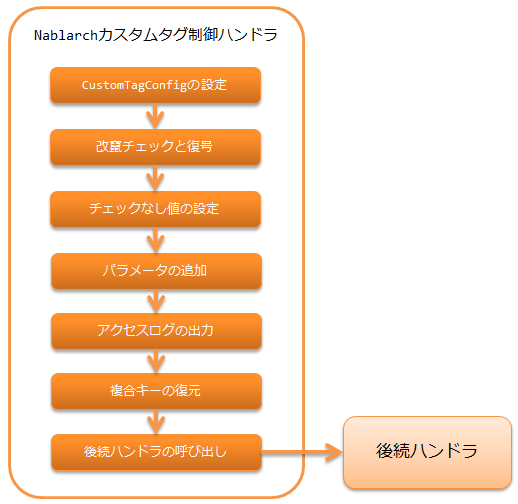
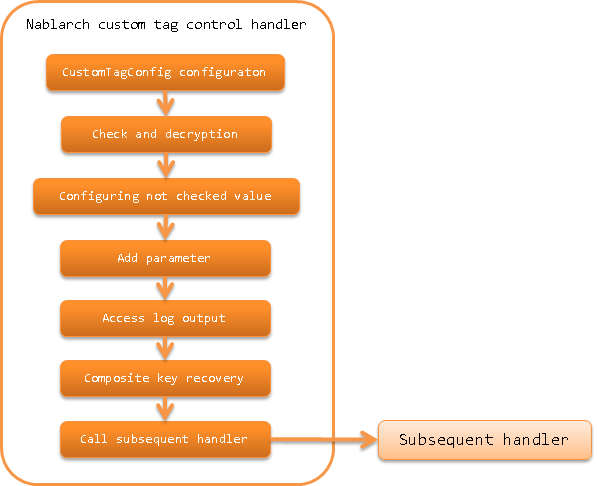
Nablarchカスタムタグ制御ハンドラページを英語化

Changed region(s): [[0.0, 0.0, 1.0, 1.0]]

diff --git a/en/application_framework/application_framework/handlers/web/nablarch_tag_handler.rst b/en/application_framework/application_framework/handlers/web/nablarch_tag_handler.rst
@@ -1,40 +1,40 @@
 .. _nablarch_tag_handler:
 
-Nablarchカスタムタグ制御ハンドラ
+Nablarch Custom Tag Control Handler
 ==================================================
 
-.. contents:: 目次
+.. contents:: Table of contents
   :depth: 3
   :local:
 
-Nablarchの :ref:`tag` に必要なリクエスト処理を行うハンドラ。
+This handler performs request processing required for Nablarch :ref:`tag`.
 
-本ハンドラでは、以下の処理を行う。
+This handler performs the following processes.
 
-* カスタムタグのデフォルト値をJSPで参照できるように、
-  :java:extdoc:`CustomTagConfig<nablarch.common.web.tag.CustomTagConfig>` をリクエストスコープに設定する。
-* :ref:`hidden暗号化<tag-hidden_encryption>` に対応する改竄チェックと復号を行う。
-* :ref:`チェックボックスのチェックなしに対する値を指定する<tag-checkbox_off_value>` ために、リクエストにチェックなしに対応する値を設定する。
-* :ref:`ボタン又はリンク毎のパラメータ追加<tag-submit_change_parameter>` のために、リクエストにパラメータを追加する。
-* :ref:`http_access_log` のリクエストパラメータを出力する。
-* :ref:`複合キーを扱える<tag-composite_key>` ようにするため、複合キーを復元する。
+* Configure :java:extdoc:`CustomTagConfig<nablarch.common.web.tag.CustomTagConfig>` in the request scope
+  so that the default value of custom tag can be referenced in JSP.
+* Performs tampering check and decryption corresponding to :ref:`hidden encryption<tag-hidden_encryption>`.
+* For :ref:`specify the value for checkbox that is not checked<tag-checkbox_off_value>`, configure the corresponding value in the request without checking.
+* For :ref:`add parameters for each button or link<tag-submit_change_parameter>`, add parameters to the request.
+* Output the request parameter of :ref:`http_access_log`.
+* Restore the composite key to set :ref:`handle composite key<tag-composite_key>`.
 
 .. tip::
- GETリクエストの場合、カスタムタグではhiddenパラメータを出力しない。
- hiddenパラメータを出力しない理由は、 :ref:`tag-using_get` を参照。
+ In the case of GET request, hidden parameter is not output in the custom tag.
+ Refer to :ref:`tag-using_get` for the reason why hidden parameters are not output.
 
- カスタムタグに合わせて、本ハンドラでも、GETリクエストの場合はhiddenパラメータに関連する処理を行わず、
- 複合キーの復元処理のみを行う。
+ In accordance with the custom tag, this handler also does not perform the process related to the hidden parameter in the case of GET request,
+ but only restores the composite key.
 
-処理の流れは以下のとおり。
+The process flow is as follows.
 
 .. image:: ../images/NablarchTagHandler/NablarchTagHandler_flow.png
 
-ハンドラクラス名
+Handler class name
 --------------------------------------------------
 * :java:extdoc:`nablarch.common.web.handler.NablarchTagHandler`
 
-モジュール一覧
+Module list
 ---------------------------------------------------------------------
 .. code-block:: xml
 
@@ -43,38 +43,38 @@ Nablarchの :ref:`tag` に必要なリクエスト処理を行うハンドラ。
     <artifactId>nablarch-fw-web-tag</artifactId>
   </dependency>
 
-制約
+Constraints
 ------------------------------
-:ref:`multipart_handler` より後ろに設定すること
-  本ハンドラは、 :ref:`tag` に必要なリクエスト処理でリクエストパラメータにアクセスするため。
+Configure this handler after the :ref:`multipart_handler`
+  This handler is used to access request parameters in the request process required for the :ref:`tag`.
 
-:ref:`hidden暗号化<tag-hidden_encryption>` 使用時は、:ref:`thread_context_handler` より後ろに設定すること
-  hidden暗号化対象のリクエストか否かを判定するために、スレッドコンテキストからリクエストIDを取得するため。
+When using :ref:`hidden encryption<tag-hidden_encryption>`, configure this handler after the :ref:`thread_context_handler`
+  To acquire the request ID from the thread context to determine whether the request is a hidden encryption target.
 
-復号に失敗(改竄エラー、セッション無効化エラー)した場合のエラーページを設定する
-------------------------------------------------------------------------------------
-:ref:`hidden暗号化<tag-hidden_encryption>` の復号処理は、次の2つのケースにおいて失敗する可能性がある。
-改竄の判定基準は、 :ref:`復号処理<tag-hidden_encryption_decryption>` を参照。
+Configure the error page when decryption fails (tampering error, session invalidation error)
+--------------------------------------------------------------------------------------------------------------------------
+Decryption process of :ref:`hidden encryption<tag-hidden_encryption>` may fail in the following two cases.
+For the tampering determination criteria, see :ref:`decryption process<tag-hidden_encryption_decryption>`.
 
-* 暗号化したデータが改竄された場合(改竄エラー)
-* セッションから復号に使う鍵を取得できない場合(セッション無効化エラー)
+* If the encrypted data has been tampered with (tampering error)
+* If the key used for decryption cannot be obtained from the session (session invalidation error)
 
-それぞれ、
-:java:extdoc:`NablarchTagHandler<nablarch.common.web.handler.NablarchTagHandler>` の設定で、
-エラー発生時のエラーページとステータスコードを指定することができる。
+The error page and status code
+when an error occurs can be specified in the configuration of
+:java:extdoc:`NablarchTagHandler<nablarch.common.web.handler.NablarchTagHandler>`.
 
 .. code-block:: xml
 
   <component name="nablarchTagHandler"
              class="nablarch.common.web.handler.NablarchTagHandler">
     <!--
-      改竄エラー発生時の設定
+      Configuration when a tampering error occurs
     -->
     <property name="path" value="/TAMPERING-DETECTED.jsp" />
     <property name="statusCode" value="400" />
     <!--
-      セッション無効化エラー発生時の設定
-      省略した場合は改竄エラー発生時の設定が使用される。
+      Configuration when session invalidation error occurs
+      If omitted, the configuration of tampering error is used.
     -->
     <property name="sessionExpirePath" value="/SESSION-EXPIRED.jsp" />
     <property name="sessionExpireStatusCode" value="400" />
